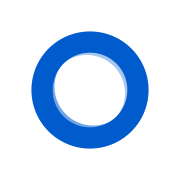
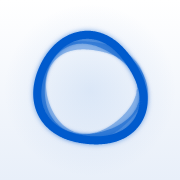
README and site: real Pippa mark, plainer README, no Pippa 1.0
The README logo and the site's favicon, apple-touch icon and icon-512 showed a thick
ring on a white square. They now show the app icon as make-icon.swift draws it: three
wobbly rings on the light tile. The README loses its slogan-style bullets, gets the
memory file and the larger model's download size, and a code comment no longer
calls an early test build "Pippa 1.0".

Claude-Session: https://claude.ai/code/session_014NYLAoRJqixCSiXLJLc8X3

Changed region(s): [[0.1389, 0.1389, 0.8611, 0.9444]]

diff --git a/app/Sources/PippaCore/PiSetup/PiLocalServer.swift b/app/Sources/PippaCore/PiSetup/PiLocalServer.swift
@@ -44,7 +44,7 @@ public enum PiLocalServer {
         public var errorDescription: String? {
             switch self {
             case .binaryMissing: "llama-server fehlt (Contents/Helpers oder PIPPA_LLAMA_SERVER)."
-            // E.g. Gemma from Pippa 1.0: no longer in the catalog. Pippa's setup sets up the current model.
+            // E.g. Gemma from an early test build: no longer in the catalog. Pippa's setup sets up the current model.
             case .unknownModel(let id): "Modell \(id) steht nicht mehr in Pippas Katalog. Öffne Pippa; die Einrichtung holt das aktuelle Modell."
             case .modelMissing(let id): "Modell \(id) liegt weder im Modellordner des Installers noch in Pippas Modellordner."
             case .portMismatch(let a, let b): "Port in models.json (\(a)) passt nicht zu Pippas Einstellungen (\(b)); Installer-Schritt „models.json“ reparieren."

diff --git a/README.md b/README.md
@@ -1,13 +1,13 @@
 <p align="center">
-  <img src="site/icon-512.png" width="96" height="96" alt="Pippa's mark: three soft blue rings">
+  <img src="site/icon-512.png" width="112" height="112" alt="Pippa's app icon: three wobbly blue rings on a light tile">
 </p>
 
 <h1 align="center">Pippa</h1>
 
 <p align="center">
   <b>Just drop it on Pippa.</b><br>
-  A small helper at the edge of your Mac's screen. Give her a letter, a few photos or a messy folder,<br>
-  pick one of the next steps she offers, and get the result right in the pill. The AI runs on your Mac.
+  A small pill at the edge of your Mac's screen. Drop a letter, a few photos or a folder on it,<br>
+  pick one of the steps she suggests, and the result appears in the pill. The AI runs on your Mac.
 </p>
 
 <p align="center">
@@ -23,16 +23,14 @@
   </picture>
 </p>
 
-## Why Pippa
+## How it feels
 
-Most AI apps start with an empty text box and expect you to know what to ask. Pippa starts with your stuff.
+You don't have to know what to ask. Drag something onto the pill, or click her while a mail or a spreadsheet is open, and she suggests two or three next steps. You can always type instead.
 
-- **Drop, don't prompt.** Drag something onto the pill, or click her while a mail or a spreadsheet is open. She offers two or three next steps in plain words. Typing always works too, but you never have to.
-- **The pill tells you what's happening.** "Reading the letter · page 2 of 2", not dots that blink. Every job ends in one of three ways: done, needs you, or didn't work, with the reason.
-- **The answer comes first.** One sentence that says what to do, the passage it came from, and a button for the next step.
-- **Results are things.** A finished PDF sits in the pill and can be dragged straight into Mail. A reply waits in Mail as a draft.
-- **It stays until you look.** Close the window, come back later: the result is still in the pill.
-- **She remembers what matters.** Tell her where you live or who your landlord is, and she keeps it for next time. "Forget that" is enough to remove it. New topics start by themselves, with a short note of what came before.
+- While she works, the pill says what she is doing, for example "Reading the letter · page 2 of 2". A job ends as done, needs you, or didn't work, and a failure comes with the reason.
+- An answer starts with one sentence about what to do, followed by the passage it came from and a button for the next step.
+- A finished PDF stays in the pill and can be dragged into Mail. A reply waits in Mail as a draft. Results stay in the pill until you open them.
+- She remembers facts you tell her, such as where you live or who your landlord is. "Forget that" removes one. When you move on to something new, she starts a new topic by herself and carries over deadlines and amounts.
 
 <p align="center">
   <picture>
@@ -41,7 +39,7 @@ Most AI apps start with an empty text box and expect you to know what to ask. Pi
   </picture>
 </p>
 
-Pippa is made for people who don't pay for AI subscriptions and never open Terminal. She speaks English, and German when your Mac is set to German, and answers in the language you write in.
+Pippa is for people who don't pay for an AI subscription and never open Terminal. Her menus are in English, or German when your Mac is set to German, and she answers in the language you write in.
 
 ## What she can do
 
@@ -54,7 +52,7 @@ Pippa is made for people who don't pay for AI subscriptions and never open Termi
 - **Find a file.** "Where is the invoice from the plumber?" searches your Mac with Spotlight.
 - **Look something up online,** when the answer isn't on your Mac.
 
-Because the brain behind the pill is a real agent with real tools, Pippa can also handle jobs nobody planned for, such as renaming a batch of files.
+Behind the pill is an agent with file and shell tools, so she can also do jobs that have no button, such as renaming a batch of files.
 
 <p align="center">
   <picture>
@@ -67,7 +65,7 @@ Because the brain behind the pill is a real agent with real tools, Pippa can als
 
 ## How it works
 
-Pippa is a thin, friendly layer over proven open-source parts. The app is the pill; everything clever is [Pi](https://github.com/earendil-works/pi).
+The app draws the pill and connects to your Mac's apps. The agent behind it is [Pi](https://github.com/earendil-works/pi), running a local model through llama.cpp.
 
 ```
 Pippa.app (Swift, SwiftUI)          the pill, cards, settings, first start
@@ -80,7 +78,7 @@ Pippa.app (Swift, SwiftUI)          the pill, cards, settings, first start
  └─ optional: your ChatGPT subscription through Pi's own sign-in
 ```
 
-- **Pi is the brain.** Pippa installs a pinned Pi release for you, without Terminal, and talks to it over `pi --mode rpc`. Everything Pippa knows how to do is a Pi skill in [`runtime/pippa-skills`](runtime/pippa-skills) or a Pi package, so new abilities are text files and packages, not app code. Pi's own updates arrive with Pippa's.
+- **Pi does the work.** Pippa installs a pinned Pi release for you, without Terminal, and talks to it over `pi --mode rpc`. Everything Pippa knows how to do is a Pi skill in [`runtime/pippa-skills`](runtime/pippa-skills) or a Pi package, so new abilities are text files and packages, not app code. Pi's own updates arrive with Pippa's.
 - **Local AI through llama.cpp.** Pippa picks a model that fits your Mac, downloads it once after you agree, and runs it with a bundled, pinned [llama.cpp](https://github.com/ggml-org/llama.cpp). After that she works offline.
 - **The web through [pi-web-access](https://github.com/nicobailon/pi-web-access),** the Pi package for search and reading pages.
 - **Your Mac's apps through MCP.** Mail, Calendar, Reminders and Excel need the app's macOS permissions, so the app itself serves them to Pi over the Model Context Protocol on 127.0.0.1.
@@ -90,6 +88,7 @@ Pippa.app (Swift, SwiftUI)          the pill, cards, settings, first start
 
 - **The AI runs on your Mac.** No Pippa account, no Pippa server, no usage statistics. Pi's telemetry and update checks are switched off for the Pi that Pippa starts.
 - **Pippa reads only when you call her,** and then what you yourself can open: files, the selected mail, your calendar.
+- **What she remembers is one text file on your Mac** (`memory.md` in Pippa's support folder). She refuses to store passwords or account, card, ID, tax and phone numbers.
 - **The network is used for** the one-time model download (Hugging Face), app updates (Sparkle, from GitHub releases), web lookups, and an online model if you connect one.
 - **Mail is only ever drafted.** Pippa has no tool to send it.
 
@@ -98,7 +97,7 @@ Worth knowing: like Pi, Pippa just does the job instead of asking before every s
 ## Requirements
 
 - A Mac with Apple silicon (M1 or later) and macOS 15 or later
-- About 3 to 6 GB of free disk space for the model
+- 3 to 6 GB of free disk space for the model (about 14 GB for the larger one)
 
 | Memory | Model Pippa picks | Download |
 |---|---|---|
@@ -149,7 +148,7 @@ Signing, notarizing, environment variables and where Pippa keeps its data: [docs
 
 ## Credits
 
-Pippa stands on the shoulders of:
+Pippa is built on:
 
 - [Pi](https://github.com/earendil-works/pi) by Mario Zechner and Earendil Works (MIT), the agent that does the work
 - [llama.cpp](https://github.com/ggml-org/llama.cpp) by the ggml authors (MIT), which runs the local model
